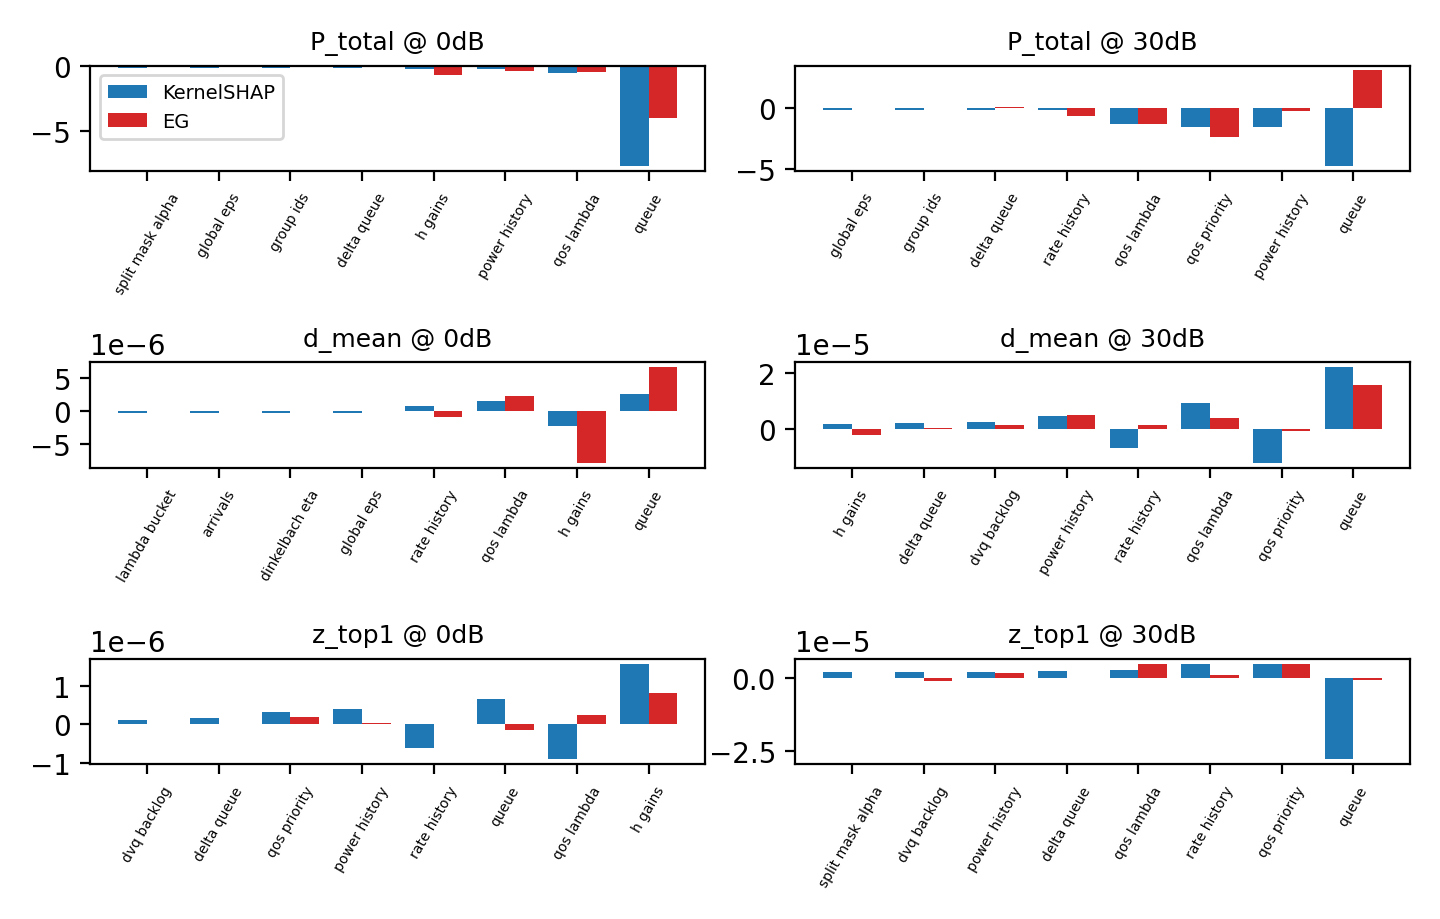
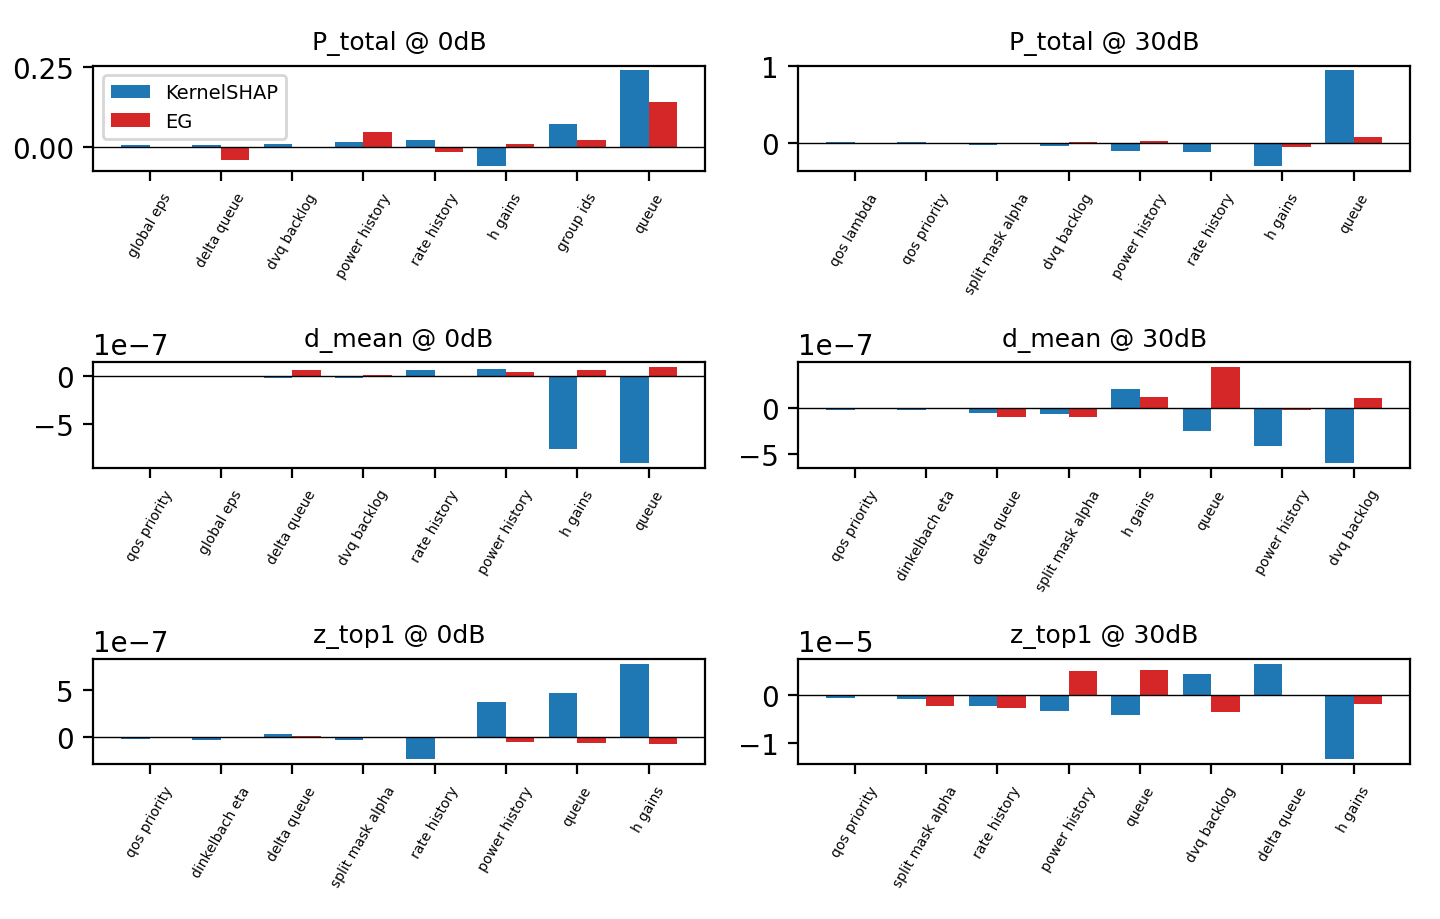
paper+plots: figure aesthetics, --plot-summary mode, meta/drain/decode narrative
- CLI gains --plot-summary <summary.json>: replot figures from an existing
  run without re-running the 7.7h analysis.
- fig_topk_overlap restructured into per-target panels (rows = SNR, cols =
  reference pairs, shared colorbar); fig_attributions now uses the paper's
  bootstrap (reporting-default) reference; fig_svea_intervals unchanged.
- Interpretability subsection gains the "near-state-invariant decisions"
  finding backed by rollout statistics (not just ~0 attributions): drain
  saturates at d=1 (std<1e-4), decoding-order top-choice is only ~0.15-0.19
  vs uniform 0.042, meta collapses to ~1 group/slot with near-constant alpha
  -> power allocation is the only strongly state-driven learned decision;
  stated as an architecture simplification opportunity.
- Two-pass pdflatex clean (10 pages).

diff --git a/scripts/interpretability_analysis.py b/scripts/interpretability_analysis.py
@@ -106,6 +106,7 @@ def parse_args(argv=None):
     p.add_argument("--refs", default="zero,means,boot,neutral")
     p.add_argument("--targets", default="P_total,d_mean,z_top1,alpha_avg,group_logp_0")
     p.add_argument("--figs_dir", default="docs/paper/figs")
+    p.add_argument("--plot-summary", default="", help="只重绘模式：既有 summary.json 路径（跳过采集/分析）")
     return p.parse_args(argv)
 
 
@@ -115,6 +116,9 @@ def _parse_list(s: str):
 
 def main(argv=None):
     args = parse_args(argv)
+    if args.plot_summary:
+        _plot_from_summary(args)
+        return
     t0 = time.time()
     Path(args.out_dir).mkdir(parents=True, exist_ok=True)
     Path(args.figs_dir).mkdir(parents=True, exist_ok=True)
@@ -199,6 +203,20 @@ def main(argv=None):
     out_json = Path(args.out_dir) / "summary.json"
     out_json.write_text(json.dumps(summary, indent=2, ensure_ascii=False), encoding="utf-8")
     print(f"\nsummary -> {out_json}", flush=True)
+
+
+def _plot_from_summary(args):
+    """只读既有 summary.json 重出图（无需重跑 7.7h 分析）。"""
+    Path(args.figs_dir).mkdir(parents=True, exist_ok=True)
+    path = Path(args.plot_summary)
+    summary = json.loads(path.read_text(encoding="utf-8"))
+    snr_list = [int(s) for s in summary["meta"]["snr_points"]]
+    first_snr = str(snr_list[0])
+    targets = list(summary["kernel_shap"].get(first_snr, {}).keys())
+    refs = list(summary["kernel_shap"].get(first_snr, {}).get(targets[0], {}).keys()) if targets else []
+    print(f"# 依据 {path} 重绘（SNR={snr_list} refs={refs}）", flush=True)
+    _make_figures(args, summary, snr_list, refs, targets)
+    print(f"figures -> {args.figs_dir}", flush=True)
 
 
 # ---------------------------------------------------------------- 采集 -------
@@ -511,29 +529,42 @@ def _fig_svea_intervals(args, svea, snr_list):
 
 
 def _fig_overlap(args, summary, snr_list, refs, targets):
+    """参照敏感性热图：每目标一子面板（x = 参照对 y = SNR），同色标。"""
     import matplotlib.pyplot as plt
 
     worker_targets_used = [t for t in targets if not _is_meta_target(t)]
-    cols = [f"{t}@{s}" for t in worker_targets_used for s in snr_list]
-    pairs = [f"{r1}_vs_{r2}" for i, r1 in enumerate(refs) for r2 in refs[i + 1 :]]
-    M = np.full((len(pairs), len(cols)), np.nan)
-    for i, pr in enumerate(pairs):
-        for j, (t, s) in enumerate((t, s) for t in worker_targets_used for s in snr_list):
-            v = summary["validation"].get(str(s), {}).get(t, {}).get("jaccard_refs", {})
-            M[i, j] = v.get(pr, np.nan)
-    fig, ax = plt.subplots(figsize=(7.2, 4.4))
-    im = ax.imshow(M, cmap="RdYlBu_r", vmin=0, vmax=1, aspect="auto")
-    ax.set_yticks(range(len(pairs)), labels=pairs, fontsize=7)
-    ax.set_xticks(range(len(cols)), labels=cols, rotation=90, fontsize=6)
-    fig.colorbar(im, ax=ax, label="Jaccard@5")
+    pairs = [f"{r1}-{r2}" for i, r1 in enumerate(refs) for r2 in refs[i + 1 :]]
+    n_t = len(worker_targets_used)
+    ncols = min(n_t, 3)
+    nrows = int(np.ceil(n_t / ncols))
+    fig, axes = plt.subplots(nrows, ncols, figsize=(7.2, 1.6 * nrows + 1.4), squeeze=False)
+    vmin, vmax = 0.0, 1.0
+    for ax, t in zip([a for row in axes for a in row], worker_targets_used):
+        M = np.full((len(snr_list), len(pairs)), np.nan)
+        for i, s in enumerate(snr_list):
+            for j, pr in enumerate(pairs):
+                v = summary["validation"].get(str(s), {}).get(t, {}).get("jaccard_refs", {})
+                M[i, j] = v.get(f"{pr.split('-')[0]}_vs_{pr.split('-')[1]}", np.nan)
+        im = ax.imshow(M, cmap="RdYlBu_r", vmin=vmin, vmax=vmax, aspect="auto")
+        ax.set_yticks(range(len(snr_list)), labels=[f"{s} dB" for s in snr_list], fontsize=7)
+        ax.set_xticks(range(len(pairs)), labels=pairs, rotation=90, fontsize=6)
+        ax.set_title(t, fontsize=9)
+        ax.grid(False)
+    for ax in [a for row in axes for a in row][len(worker_targets_used) :]:
+        ax.axis("off")
+    fig.colorbar(im, ax=axes, label="Jaccard@5", fraction=0.025, pad=0.02)
     fig.tight_layout()
     fig.savefig(Path(args.figs_dir) / "fig_topk_overlap.png", dpi=200)
     plt.close(fig)
 
 
 def _fig_attributions(args, summary, snr_list):
+    """EG(KernelSHAP 既定口径参照) 归因条形图：target × {0,30}dB，top-8 块。"""
     import matplotlib.pyplot as plt
 
+    ref = "boot" if "boot" in list(
+        summary["kernel_shap"].get(str(snr_list[0]), {}).get("P_total", {}).keys()
+    ) else "means"
     snrs = [s for s in snr_list if s in (0, 30)] or snr_list[:2]
     targets_used = [
         t
@@ -547,13 +578,14 @@ def _fig_attributions(args, summary, snr_list):
     names = SHAP_PLAYER_NAMES
     for r, target in enumerate(targets_used):
         for c, snr in enumerate(snrs):
-            ker = np.array(summary["kernel_shap"][str(snr)][target]["means"])
-            eg = np.array(summary["eg"][str(snr)][target]["means"])
+            ker = np.array(summary["kernel_shap"][str(snr)][target][ref])
+            eg = np.array(summary["eg"][str(snr)][target][ref])
             idx = np.argsort(np.abs(ker))[-8:]
             ax = axes[r][c]
             x = np.arange(8)
             ax.bar(x - 0.2, ker[idx], 0.4, color="#1f77b4", label="KernelSHAP")
             ax.bar(x + 0.2, eg[idx], 0.4, color="#d62728", label="EG")
+            ax.axhline(0.0, color="k", lw=0.5)
             ax.set_xticks(x)
             ax.set_xticklabels([names[i].replace("_", " ") for i in idx], rotation=60, fontsize=5)
             ax.set_title(f"{target} @ {snr}dB", fontsize=9)

diff --git a/docs/paper/main.tex b/docs/paper/main.tex
@@ -860,6 +860,23 @@ KernelSHAP shows queue-backlog and channel-gain blocks as the dominant drivers o
 the total-power decision, consistent with the DGLCR design intent. Worker $\alpha$
 is excluded as a dead dimension (overridden by the meta split mask).
 
+The remaining three decision objects are \emph{near-state-invariant} in the
+distilled policy: attributions for them are effectively zero, and direct rollout
+statistics confirm the mechanism rather than an artifact of the attribution.
+The drain ratio saturates at $d_k \equiv 1$ at every point ($\mathrm{std} < 10^{-4}$
+across all 16{,}800 slots), the decoding order's top choice repeats only
+$\approx$0.15--0.19 of the time (vs.\ $1/24$ uniform), i.e.\ the softmax
+confidence on the top user is feature-flat even though the order is weakly
+structured, and the meta controller places essentially all users in a single
+group ($\approx$1--2 groups per slot) with a near-constant split
+$\alpha \approx 0.15$--0.20 whose variance grows only at 30\,dB. The power
+allocation is therefore the \emph{only} strongly state-driven learned decision;
+the drain/order/grouping heads sit at learned default values, indicating that
+the SFTP distillation compressed the optimizer's power behavior into the policy
+and the other action heads kept their initialization-scale defaults --- a
+concrete simplification opportunity for the architecture (fixed drain/order,
+or dropping the meta grouping).
+
 \begin{figure}[t]
 \centering
 \includegraphics[width=\columnwidth]{fig_svea_intervals}
